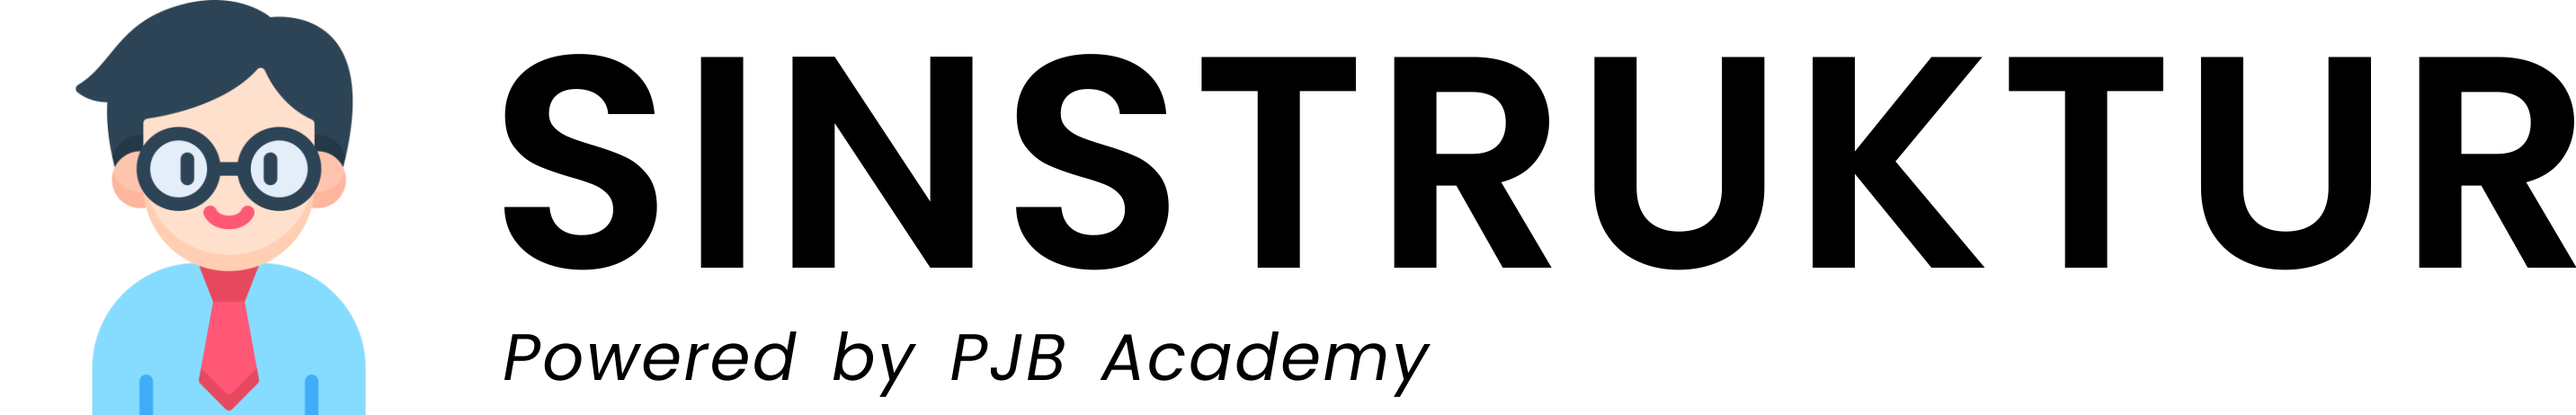
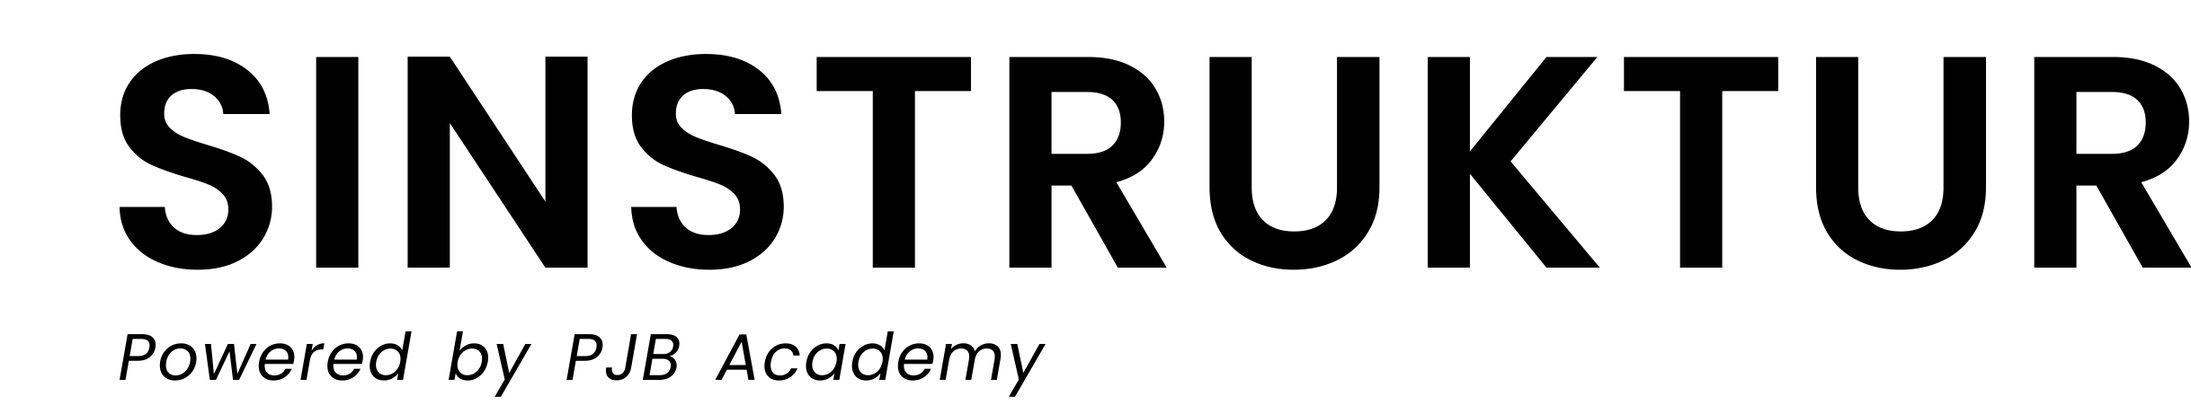
update4

diff --git a/resources/views/page/dashboard-home.blade.php b/resources/views/page/dashboard-home.blade.php
@@ -2,6 +2,85 @@
 
 @section('konten')
 
-<h1>Dashboard</h1>
+<div class="row p-5">
+
+    <!-- Earnings (Monthly) Card Example -->
+    <div class="col-xl-3 col-md-6 mb-4">
+      <div class="card border-left-primary shadow h-100 py-2">
+        <div class="card-body">
+          <div class="row no-gutters align-items-center">
+            <div class="col mr-2">
+              <div class="text-xs font-weight-bold text-primary text-uppercase mb-1">Earnings (Monthly)</div>
+              <div class="h5 mb-0 font-weight-bold text-gray-800">$40,000</div>
+            </div>
+            <div class="col-auto">
+              <i class="fas fa-calendar fa-2x text-gray-300"></i>
+            </div>
+          </div>
+        </div>
+      </div>
+    </div>
+
+    <!-- Earnings (Monthly) Card Example -->
+    <div class="col-xl-3 col-md-6 mb-4">
+      <div class="card border-left-success shadow h-100 py-2">
+        <div class="card-body">
+          <div class="row no-gutters align-items-center">
+            <div class="col mr-2">
+              <div class="text-xs font-weight-bold text-success text-uppercase mb-1">Earnings (Annual)</div>
+              <div class="h5 mb-0 font-weight-bold text-gray-800">$215,000</div>
+            </div>
+            <div class="col-auto">
+              <i class="fas fa-dollar-sign fa-2x text-gray-300"></i>
+            </div>
+          </div>
+        </div>
+      </div>
+    </div>
+
+    <!-- Earnings (Monthly) Card Example -->
+    <div class="col-xl-3 col-md-6 mb-4">
+      <div class="card border-left-info shadow h-100 py-2">
+        <div class="card-body">
+          <div class="row no-gutters align-items-center">
+            <div class="col mr-2">
+              <div class="text-xs font-weight-bold text-info text-uppercase mb-1">Tasks</div>
+              <div class="row no-gutters align-items-center">
+                <div class="col-auto">
+                  <div class="h5 mb-0 mr-3 font-weight-bold text-gray-800">50%</div>
+                </div>
+                <div class="col">
+                  <div class="progress progress-sm mr-2">
+                    <div class="progress-bar bg-info" role="progressbar" style="width: 50%" aria-valuenow="50" aria-valuemin="0" aria-valuemax="100"></div>
+                  </div>
+                </div>
+              </div>
+            </div>
+            <div class="col-auto">
+              <i class="fas fa-clipboard-list fa-2x text-gray-300"></i>
+            </div>
+          </div>
+        </div>
+      </div>
+    </div>
+
+    <!-- Pending Requests Card Example -->
+    <div class="col-xl-3 col-md-6 mb-4">
+      <div class="card border-left-warning shadow h-100 py-2">
+        <div class="card-body">
+          <div class="row no-gutters align-items-center">
+            <div class="col mr-2">
+              <div class="text-xs font-weight-bold text-warning text-uppercase mb-1">Pending Requests</div>
+              <div class="h5 mb-0 font-weight-bold text-gray-800">18</div>
+            </div>
+            <div class="col-auto">
+              <i class="fas fa-comments fa-2x text-gray-300"></i>
+            </div>
+          </div>
+        </div>
+      </div>
+    </div>
+  </div>
+</div>
 
 @endsection

diff --git a/resources/views/layouts/main.blade.php b/resources/views/layouts/main.blade.php
@@ -77,7 +77,7 @@
 
   }
   .shadow-lg:hover{
-    border:1px solid blue;
+    border:1px solid rgb(190, 190, 190);
   }
 
   .tooltip-inner {
@@ -145,7 +145,7 @@
 
       <!-- Nav Item - Pages Collapse Menu -->
 
-      <span class="text-light" style="font-size:15px">Menu</span>
+      <b class="text-light" style="font-size:15px ;margin-left:20px">Menu</b>
 
       <li class="nav-item "  data-toggle="tooltip" data-placement="right" title="Tampilan Ringkasan!">
       <div class="shadow-lg m-2">
@@ -224,7 +224,7 @@
 
         <!-- Topbar -->
         <nav class="navbar bg-custom-navbar navbar-expand navbar-light bg-white topbar mb-4 static-top shadow">
-            <img src="/img/siinstruktur.png" width="320" height="auto" padding="20">
+            <img src="/img/siinstruktur.png" width="280" height="auto" padding="20">
 
           <!-- Sidebar Toggle (Topbar) -->
           <button id="sidebarToggleTop" class="btn btn-link d-md-none rounded-circle mr-3">
